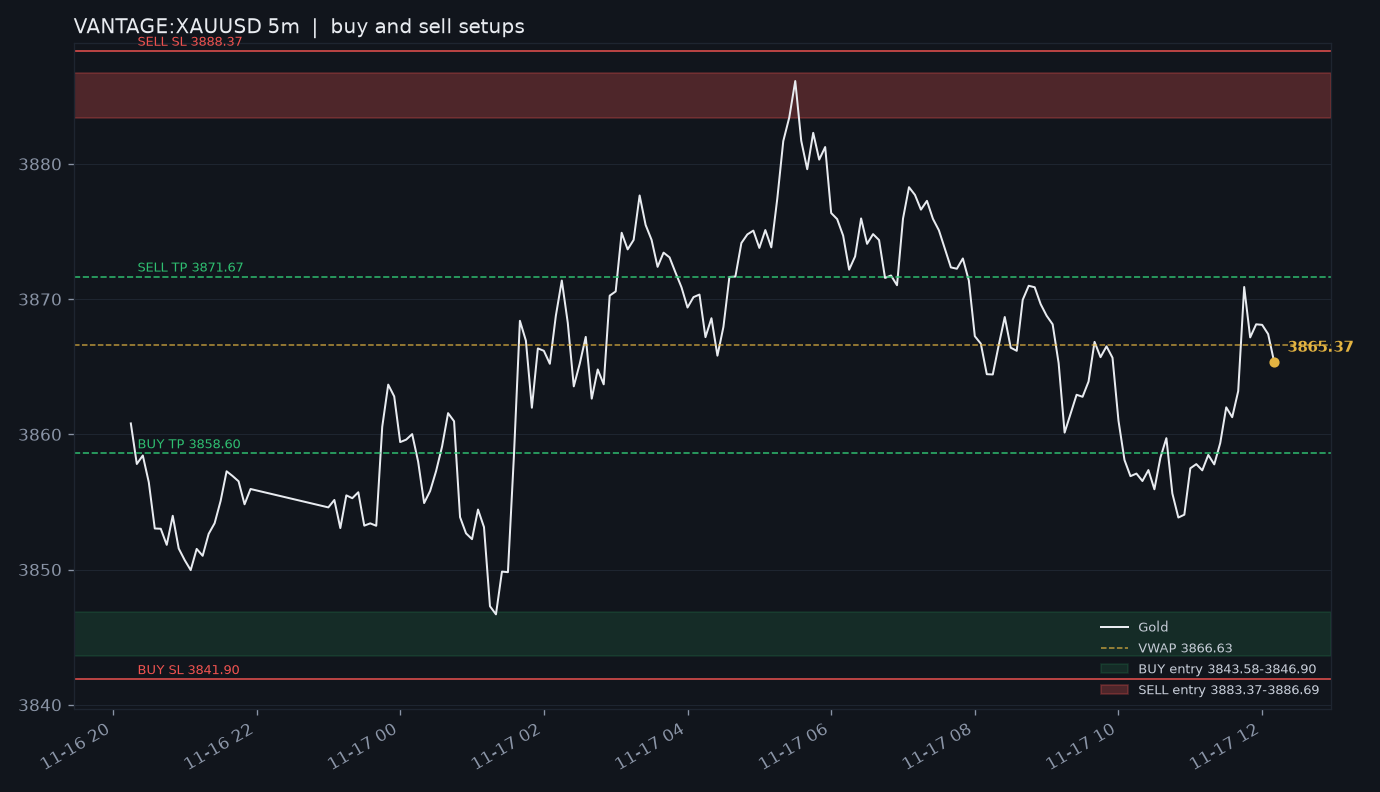
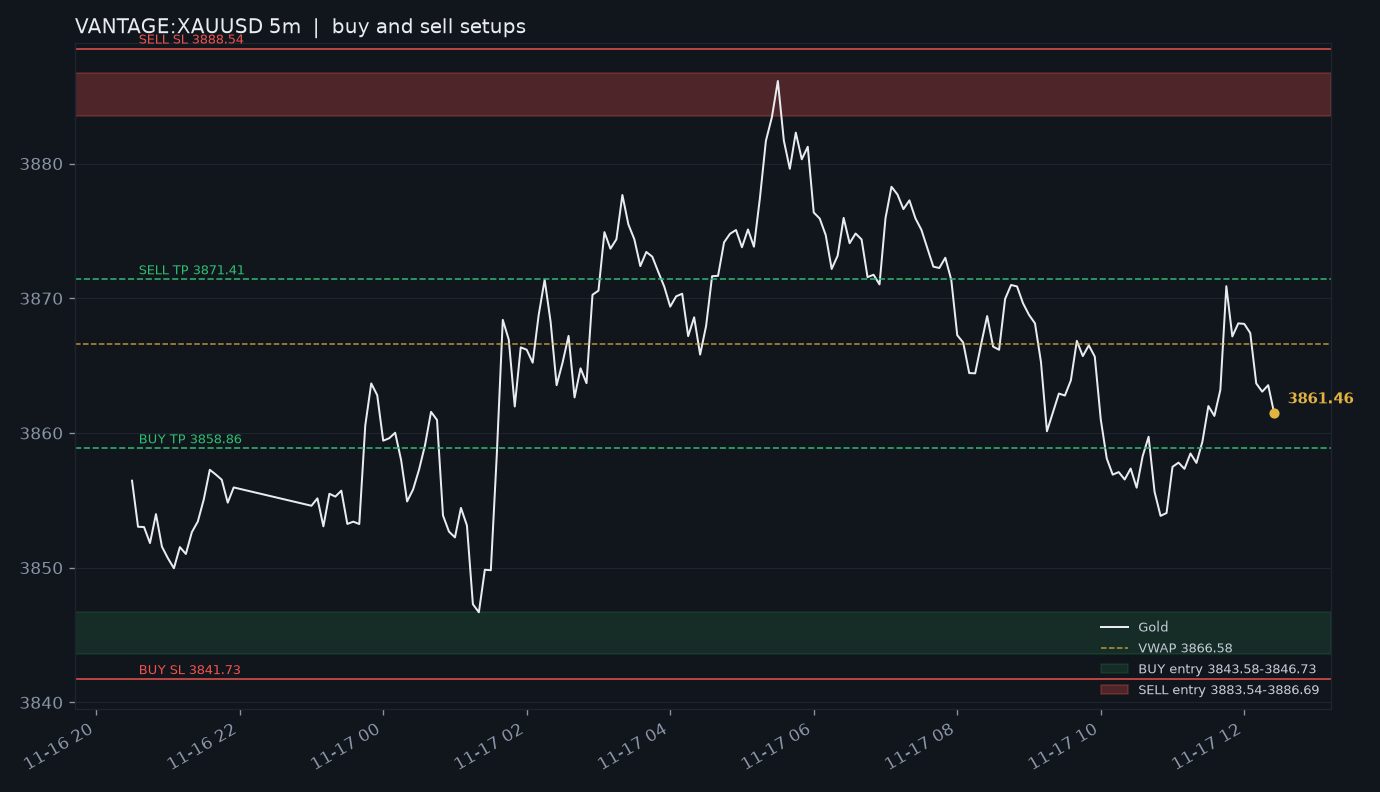
bot run 2026-11-17 12:40 UTC

diff --git a/docs/index.html b/docs/index.html
@@ -4,7 +4,7 @@
 <meta charset="utf-8">
 <meta name="viewport" content="width=device-width, initial-scale=1">
 <meta http-equiv="refresh" content="300">
-<title>Gold signal · 3865.37 · WAIT</title>
+<title>Gold signal · 3861.46 · WAIT</title>
 <style>
 :root { --bg:#0b0e13; --panel:#11151c; --line:#1e2530; --text:#e8ebf0; --muted:#8a94a6; --gold:#e3b341;
   --buy:#2fbf71; --sell:#ef5350; --warn:#f0a020; }
@@ -96,9 +96,9 @@ pre { white-space:pre-wrap; font:13px/1.55 ui-monospace, Consolas, monospace; co
   <div class="top">
     <div>
       <div class="brand">Gold intraday <small>VANTAGE:XAUUSD · alerts only</small></div>
-      <div class="price">3865.37</div>
+      <div class="price">3861.46</div>
     </div>
-    <div class="updated">Updated 2026-11-17 12:12 UTC<br>Re-analysed every 15 min · price checked every minute</div>
+    <div class="updated">Updated 2026-11-17 12:26 UTC<br>Re-analysed every 15 min · price checked every minute</div>
   </div>
 
   <section class="hero">
@@ -116,11 +116,11 @@ pre { white-space:pre-wrap; font:13px/1.55 ui-monospace, Consolas, monospace; co
     <div class="side">SELL <small>XAUUSD</small></div>
     <span class="tag tag-ready">Strategy trade</span>
   </header>
-  <div class="check st-expired"><b>Expired</b><span>Signal is 120 minutes old without an entry. Waiting for a fresh one.</span><small>checked 12:12 UTC</small></div>
+  <div class="check st-expired"><b>Expired</b><span>Signal is 120 minutes old without an entry. Waiting for a fresh one.</span><small>checked 12:26 UTC</small></div>
   <div class="levels">
-    <div class="lvl"><span>Entry</span><b>3883.37 – 3886.69</b></div>
-    <div class="lvl"><span>Stop loss</span><b class="sl">3888.37</b></div>
-    <div class="lvl"><span>TP1</span><b class="tp">3871.67</b></div>
+    <div class="lvl"><span>Entry</span><b>3883.54 – 3886.69</b></div>
+    <div class="lvl"><span>Stop loss</span><b class="sl">3888.54</b></div>
+    <div class="lvl"><span>TP1</span><b class="tp">3871.41</b></div>
     
   </div>
   <footer>
@@ -136,11 +136,11 @@ pre { white-space:pre-wrap; font:13px/1.55 ui-monospace, Consolas, monospace; co
     <div class="side">BUY <small>XAUUSD</small></div>
     <span class="tag">Other side</span>
   </header>
-  <div class="check st-expired"><b>Expired</b><span>Signal is 120 minutes old without an entry. Waiting for a fresh one.</span><small>checked 12:12 UTC</small></div>
+  <div class="check st-expired"><b>Expired</b><span>Signal is 120 minutes old without an entry. Waiting for a fresh one.</span><small>checked 12:26 UTC</small></div>
   <div class="levels">
-    <div class="lvl"><span>Entry</span><b>3843.58 – 3846.90</b></div>
-    <div class="lvl"><span>Stop loss</span><b class="sl">3841.90</b></div>
-    <div class="lvl"><span>TP1</span><b class="tp">3858.60</b></div>
+    <div class="lvl"><span>Entry</span><b>3843.58 – 3846.73</b></div>
+    <div class="lvl"><span>Stop loss</span><b class="sl">3841.73</b></div>
+    <div class="lvl"><span>TP1</span><b class="tp">3858.86</b></div>
     
   </div>
   <footer>
@@ -154,7 +154,7 @@ pre { white-space:pre-wrap; font:13px/1.55 ui-monospace, Consolas, monospace; co
   </section>
 
   <h2>Market data</h2>
-  <div class="tiles"><div class="tile "><span>Gold</span><b>3865.37</b><small>VWAP 3866.63</small></div><div class="tile "><span>Day range</span><b>3843.58 – 3886.69</b><small><i class="range"><i style="left:51%"></i></i></small></div><div class="tile "><span>Trend</span><b>down / sideways</b><small>5-minute / 1-hour</small></div><div class="tile "><span>ATR (5m)</span><b>3.05</b><small>overlap session</small></div><div class="tile up"><span>Dollar index</span><b>103.59</b><small>-0.01% today · corr -0.16</small></div><div class="tile up"><span>WTI oil</span><b>86.09</b><small>+0.94% today · corr -0.17</small></div><div class="tile down"><span>News: dollar</span><b>+0.38</b><small>hawkish, gold headwind</small></div><div class="tile down"><span>News: oil</span><b>-0.03</b><small>neutral · fresh shock</small></div></div>
+  <div class="tiles"><div class="tile "><span>Gold</span><b>3861.46</b><small>VWAP 3866.58</small></div><div class="tile "><span>Day range</span><b>3843.58 – 3886.69</b><small><i class="range"><i style="left:41%"></i></i></small></div><div class="tile "><span>Trend</span><b>down / sideways</b><small>5-minute / 1-hour</small></div><div class="tile "><span>ATR (5m)</span><b>3.37</b><small>overlap session</small></div><div class="tile up"><span>Dollar index</span><b>103.60</b><small>-0.00% today · corr -0.19</small></div><div class="tile up"><span>WTI oil</span><b>86.16</b><small>+1.02% today · corr -0.16</small></div><div class="tile down"><span>News: dollar</span><b>+0.43</b><small>hawkish, gold headwind</small></div><div class="tile down"><span>News: oil</span><b>-0.03</b><small>neutral · fresh shock</small></div></div>
 
   <h2>Charts</h2>
   <div class="charts">
@@ -168,7 +168,7 @@ pre { white-space:pre-wrap; font:13px/1.55 ui-monospace, Consolas, monospace; co
     "backgroundColor": "#11151c", "gridColor": "rgba(255,255,255,0.04)", "container_id": "tv_gold"});
   </script>
 </div></div>
-    <div class="panel"><h3>Strategy levels · green band = buy entry, red band = sell entry, solid red = stop, dashed green = target</h3><img src="chart.png?v=1794917527" alt="Strategy levels on the gold chart"></div>
+    <div class="panel"><h3>Strategy levels · green band = buy entry, red band = sell entry, solid red = stop, dashed green = target</h3><img src="chart.png?v=1794918418" alt="Strategy levels on the gold chart"></div>
   </div>
 
   <div class="grid2">
@@ -178,14 +178,14 @@ pre { white-space:pre-wrap; font:13px/1.55 ui-monospace, Consolas, monospace; co
     </div>
     <div>
       <h2>Headlines behind the signal</h2>
-      <div class="panel"><ul class="headlines"><li><span class="hl-tag">Dollar</span>US Dollar Technical Forecast: DXY Bulls Target Yearly Highs After Hot CPI - StoneX</li><li><span class="hl-tag">Dollar</span>Swiss Franc gains as US Dollar weakens ahead of Retail Sales data - FXStreet</li><li><span class="hl-tag">Oil</span>US strategic oil inventories fall to lowest level in 44 years - Laodong.vn</li><li><span class="hl-tag">Oil</span>Global Oil Inventories Fall 537 mb From February 2026 Peak as Supply Disruptions Bite - Global Trade Magazine</li></ul></div>
+      <div class="panel"><ul class="headlines"><li><span class="hl-tag">Dollar</span>James Stanley: Gold faces selling pressure as U.S. dollar strengthens and inflation stays high - Traders Union</li><li><span class="hl-tag">Dollar</span>US Dollar Technical Forecast: DXY Bulls Target Yearly Highs After Hot CPI - StoneX</li><li><span class="hl-tag">Oil</span>US strategic oil inventories fall to lowest level in 44 years - Laodong.vn</li><li><span class="hl-tag">Oil</span>Global Oil Inventories Fall 537 mb From February 2026 Peak as Supply Disruptions Bite - Global Trade Magazine</li></ul></div>
     </div>
   </div>
 
   <div class="grid2">
     <div>
       <h2>How each approach scores now</h2>
-      <div class="panel"><ul class="scores"><li><span>Trade with the intraday trend</span><i class="bar"><i style="width:62%"></i></i><b>0.62</b><small>short</small></li><li><span>Stand aside</span><i class="bar"><i style="width:43%"></i></i><b>0.43</b><small>flat</small></li><li><span>Trade with the dollar</span><i class="bar"><i style="width:23%"></i></i><b>0.23</b><small>short</small></li><li><span>Fade the session range</span><i class="bar"><i style="width:11%"></i></i><b>0.11</b><small>flat</small></li><li><span>Trade the oil shock</span><i class="bar"><i style="width:10%"></i></i><b>0.10</b><small>flat</small></li></ul></div>
+      <div class="panel"><ul class="scores"><li><span>Trade with the intraday trend</span><i class="bar"><i style="width:62%"></i></i><b>0.62</b><small>short</small></li><li><span>Stand aside</span><i class="bar"><i style="width:43%"></i></i><b>0.43</b><small>flat</small></li><li><span>Trade with the dollar</span><i class="bar"><i style="width:26%"></i></i><b>0.26</b><small>short</small></li><li><span>Fade the session range</span><i class="bar"><i style="width:11%"></i></i><b>0.11</b><small>flat</small></li><li><span>Trade the oil shock</span><i class="bar"><i style="width:10%"></i></i><b>0.10</b><small>flat</small></li></ul></div>
     </div>
     <div>
       <h2>Track record</h2>
@@ -197,7 +197,7 @@ pre { white-space:pre-wrap; font:13px/1.55 ui-monospace, Consolas, monospace; co
   <details>
     <summary>Full analysis</summary>
     <pre>GOLD INTRADAY BRIEF
-2026-11-17 12:12 UTC
+2026-11-17 12:26 UTC
 Gold: VANTAGE:XAUUSD    Dollar index: DX-Y.NYB    WTI: CL=F
 This plan is rebuilt on every run. The journal changes which approach is trusted. It does not freeze a strategy.
 Gold prices are the VANTAGE:XAUUSD chart on TradingView (https://www.tradingview.com/chart/?symbol=VANTAGE%3AXAUUSD). That is the Vantage XAUUSD gold CFD, so these levels match that chart rather than COMEX futures.
@@ -209,42 +209,42 @@ Size 1 units, 5.00 USD at risk, normal tier.
 It stays in charge until its invalidation, its target, or 120 minutes from 11:27 UTC. The read below is shown for information and was not opened.
 
 NEW READ (not opened)
-Trade with the intraday trend  |  SHORT  |  confidence 0.58  |  id fe903b04
+Trade with the intraday trend  |  SHORT  |  confidence 0.58  |  id e25bfbb0
 Chosen because it cleared the bar and led the other approaches.
-The 5-minute structure is down and the 1-hour structure is sideways. The dollar is quiet, so the chart is the driver. The plan sells a rally in 3883.37 to 3886.69 instead of chasing 3865.37. Invalidation is 3888.37. Oil is up. The entry zone was tightened toward the invalidation so the smallest size fits the risk limit.
+The 5-minute structure is down and the 1-hour structure is sideways. The dollar is quiet, so the chart is the driver. The plan sells a rally in 3883.54 to 3886.69 instead of chasing 3861.46. Invalidation is 3888.54. Oil is up. The entry zone was tightened toward the invalidation so the smallest size fits the risk limit.
 SELL XAUUSD
-Entry: 3883.37 - 3886.69
-SL: 3888.37
-TP1: 3871.67
+Entry: 3883.54 - 3886.69
+SL: 3888.54
+TP1: 3871.41
 Normal tier: risk budget 5.00 USD, targets capped at 1:4.
 Size 1 units (0.01 lot of XAUUSD at 1 unit = 1 oz). Loss at invalidation from the worst fill in the zone: 5.00 USD (5.0% of 100 USD). Stop distance 5.00. This is not an order.
-Price is 3865.37, outside the entry zone. Wait for that zone. This is not a market order.
+Price is 3861.46, outside the entry zone. Wait for that zone. This is not a market order.
 There is not enough graded history for this kind of session. Treat the plan as a draft.
 
 WHAT WOULD CHANGE IT
 - This plan is graded after 120 minutes, or sooner if price hits the invalidation or the target.
 - Running the brief again before that replaces this plan and does not grade it.
-- Price through 3888.37 kills the idea.
+- Price through 3888.54 kills the idea.
 - If the 5-minute structure breaks, or the dollar starts a strong opposing move, cancel the trend idea.
 - A headline that flips the dollar or oil story means you run a new brief before entering.
 
 CHART
-Gold 3865.37 in London / New York overlap (12:00-17:00 UTC). 5-minute structure is down. 1-hour structure is sideways.
-UTC-day range 3843.58 to 3886.69. Price is 51% of the way up that range, below VWAP 3866.63. ATR 3.05. Short-range volatility over longer-range volatility is 1.06.
+Gold 3861.46 in London / New York overlap (12:00-17:00 UTC). 5-minute structure is down. 1-hour structure is sideways.
+UTC-day range 3843.58 to 3886.69. Price is 41% of the way up that range, below VWAP 3866.58. ATR 3.37. Short-range volatility over longer-range volatility is 1.14.
 This is the most liquid part of the gold day.
 
 DOLLAR
-DXY 103.59 (-0.01% this UTC day, flat). Correlation of recent 5-minute returns with gold is -0.16. The dollar is quiet, so it is not the driver right now.
+DXY 103.60 (-0.00% this UTC day, flat). Correlation of recent 5-minute returns with gold is -0.19. The dollar is quiet, so it is not the driver right now.
 
 OIL
-WTI 86.09 (+0.94% this UTC day, up). Correlation of recent 5-minute returns with gold is -0.17. A rising oil tape can support gold when the move is a supply shock. It does not override a strong dollar by itself.
+WTI 86.16 (+1.02% this UTC day, up). Correlation of recent 5-minute returns with gold is -0.16. A rising oil tape can support gold when the move is a supply shock. It does not override a strong dollar by itself.
 
 HEADLINES
-Dollar-headline score +0.38 (wording supports a stronger dollar, usually a headwind for gold). Oil-headline score -0.03 (no clear oil impulse in the wording). Fresh shock wording: yes.
+Dollar-headline score +0.43 (wording supports a stronger dollar, usually a headwind for gold). Oil-headline score -0.03 (no clear oil impulse in the wording). Fresh shock wording: yes.
 Dollar headlines:
+- James Stanley: Gold faces selling pressure as U.S. dollar strengthens and inflation stays high - Traders Union
 - US Dollar Technical Forecast: DXY Bulls Target Yearly Highs After Hot CPI - StoneX
 - Swiss Franc gains as US Dollar weakens ahead of Retail Sales data - FXStreet
-- Indonesian Rupiah gains as US Dollar weakens amid Treasury sell-off - FXStreet
 Oil headlines:
 - US strategic oil inventories fall to lowest level in 44 years - Laodong.vn
 - Global Oil Inventories Fall 537 mb From February 2026 Peak as Supply Disruptions Bite - Global Trade Magazine
@@ -254,7 +254,7 @@ WHY THIS APPROACH
 Adjusted score = how the setup looks now, times the journal. A trade needs at least 0.50. Journal half-life is 5 days, so a lesson from a month ago barely counts.
 &gt; Trade with the intraday trend    0.62 x 1.00 = 0.62  short
   Stand aside                      0.56 x 0.77 = 0.43  flat
-  Trade with the dollar            0.23 x 1.00 = 0.23  short
+  Trade with the dollar            0.26 x 1.00 = 0.26  short
   Fade the session range           0.10 x 1.13 = 0.11  flat
   Trade the oil shock              0.12 x 0.79 = 0.10  flat
 0 wins, 0 losses, 2 scratches on similar days (effective weight 0.3). Trust multiplier 1.00.
